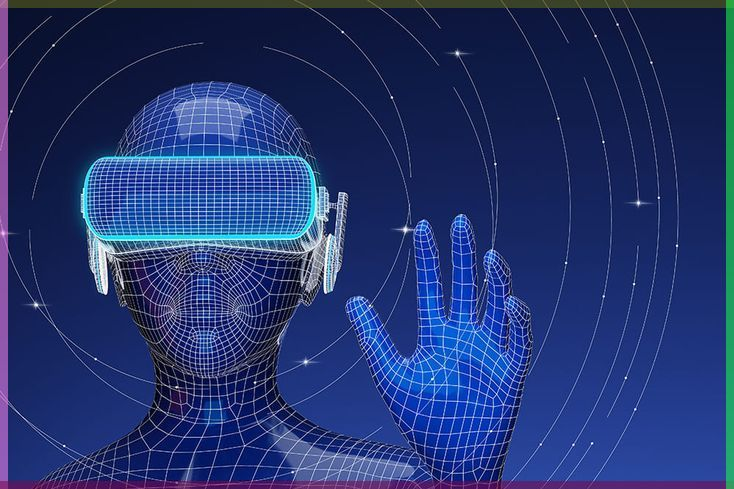
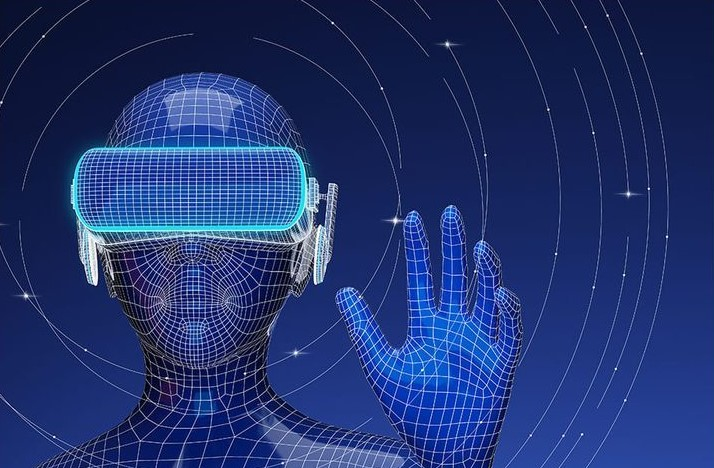
go

diff --git a/src/index.css b/src/index.css
@@ -1337,7 +1337,7 @@ border-radius: 16px;
 }
 
 .bg-invest{
-background: url(assets/invest.jpeg);
+background: url(assets/invest.jpg);
 background-repeat: no-repeat;
 background-position: 40%;
 background-size: cover;
